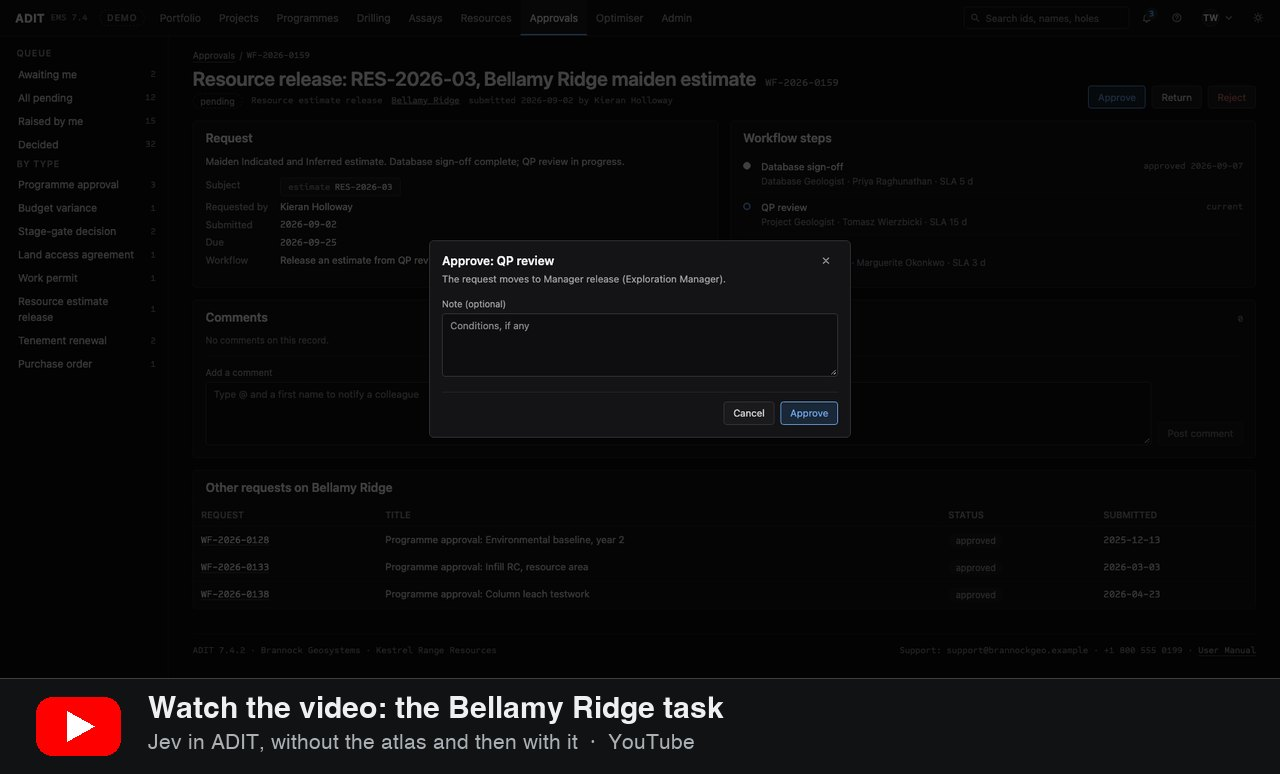
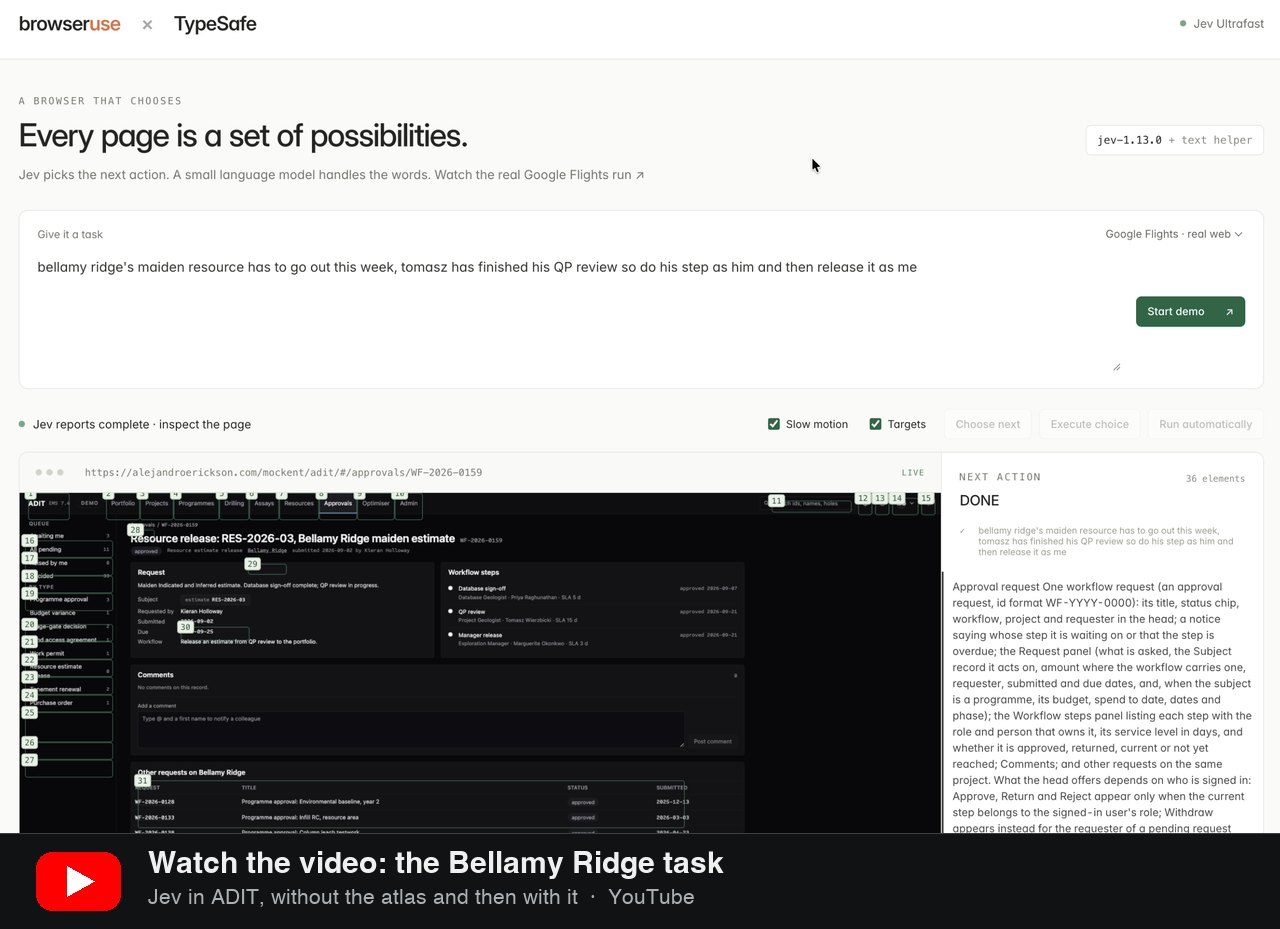
Use the inspector screenshot of the finished Bellamy Ridge run as the video thumbnail

diff --git a/README.md b/README.md
@@ -16,7 +16,7 @@ code checks them, a person accepts them, and the atlas is rebuilt.
 **Blog post:** [Jev Atlas: teaching a fast browser agent an enterprise app](https://alejandroerickson.com/2026/09/27/jev-atlas.html) 
 · **The app:** [ADIT](https://alejandroerickson.com/mockent/adit/) ([source](https://github.com/alejandroerickson/mockent))
 
-[![Watch the video: Jev on ADIT's Bellamy Ridge task, without the atlas and then with it (YouTube)](docs/video-thumbnail.jpg)](https://youtu.be/YRixZluuXb8)
+[![Watch the video: the Bellamy Ridge task in the jev-ultrafast inspector, without the atlas and then with it (YouTube)](docs/video-thumbnail.jpg)](https://youtu.be/YRixZluuXb8)
 
 On five tasks, Jev finished 1 without the atlas, 4 with it, and all 5 after one learning
 round. Repeated five times each afterwards: 5/25 without the atlas, 25/25 with it. It is a
